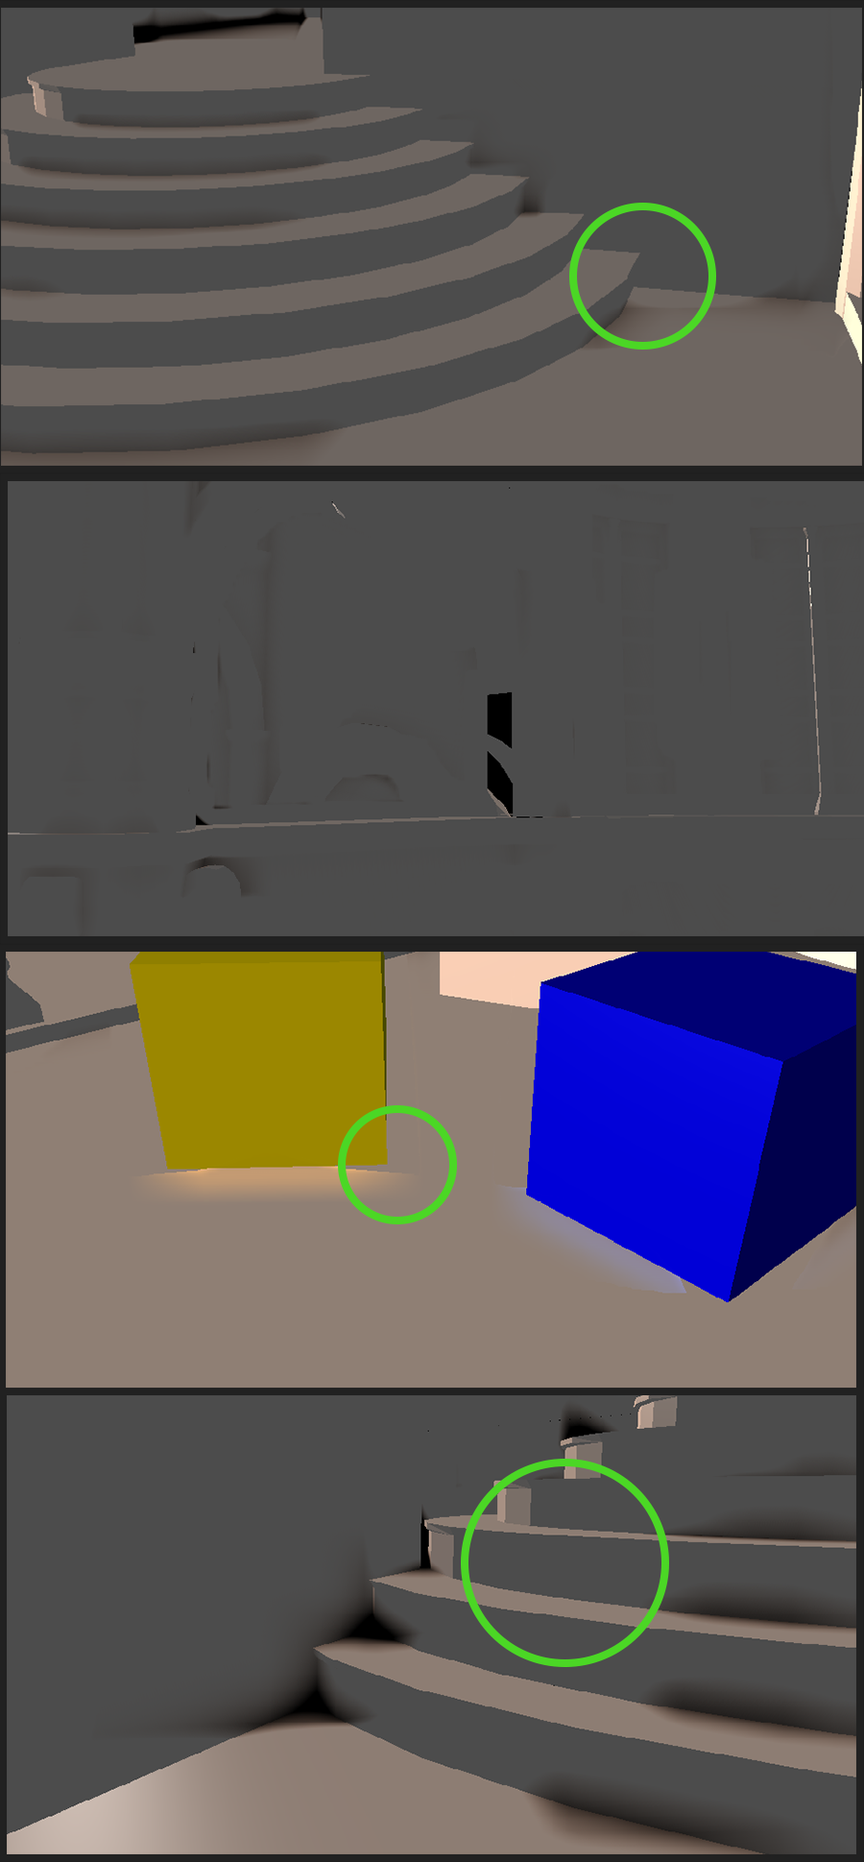
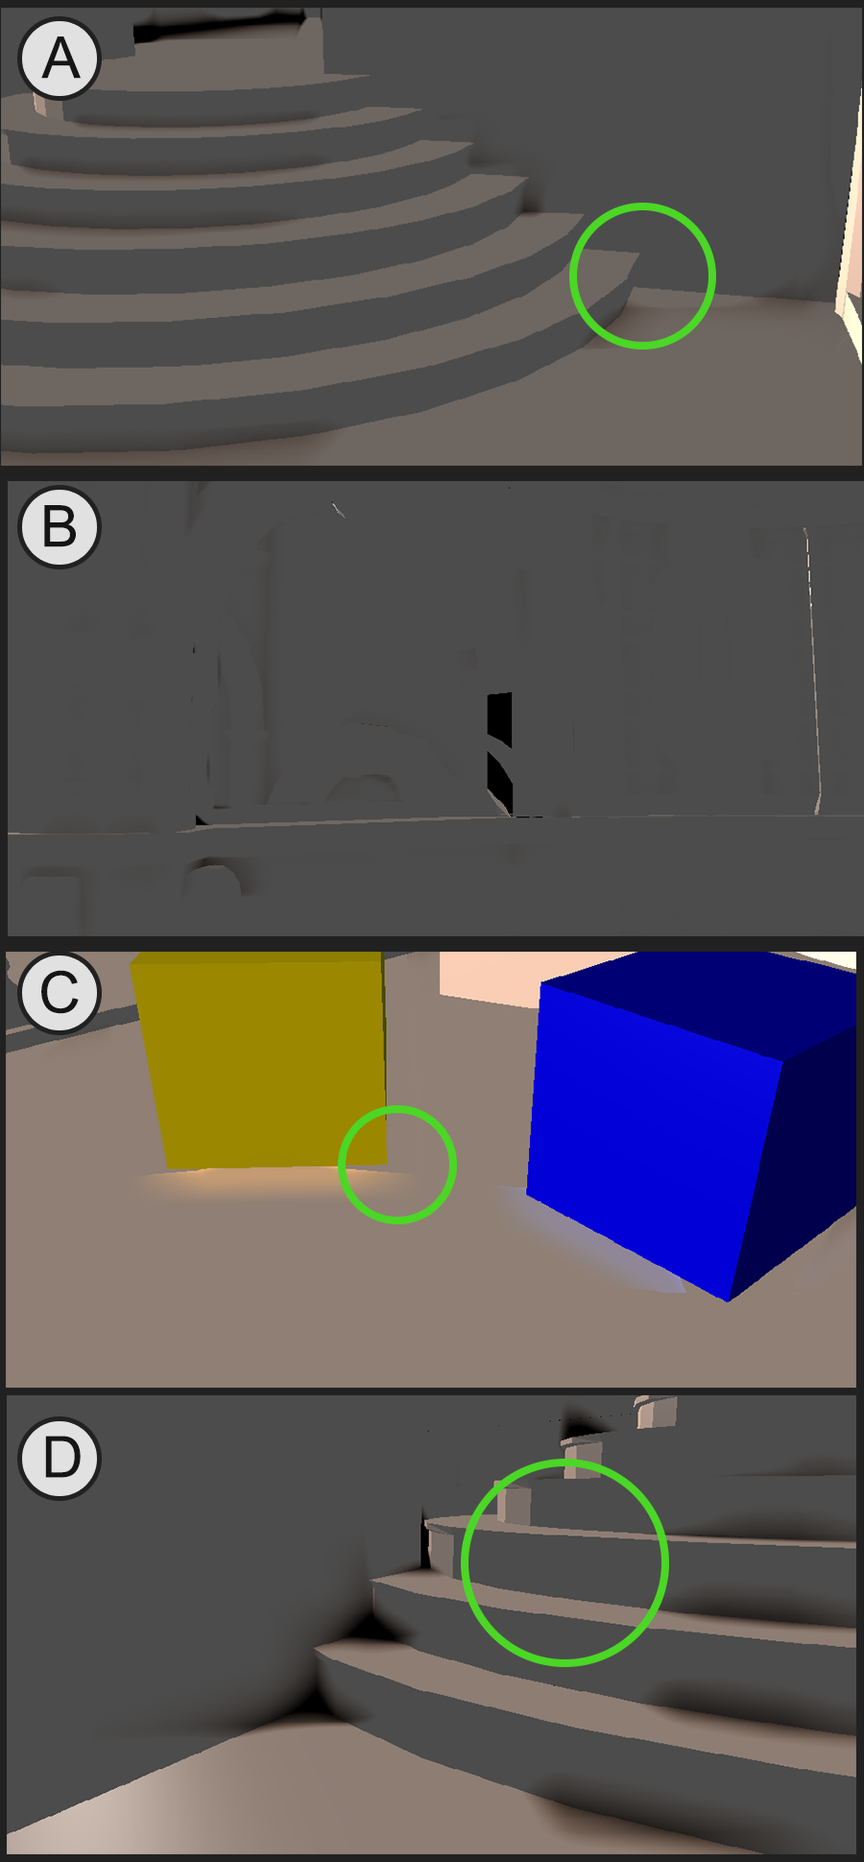
[+] Chaps 7 and 8

diff --git a/SSDOPraca/praca_tex/chap08.tex b/SSDOPraca/praca_tex/chap08.tex
@@ -4,13 +4,36 @@
 	\section{Porównanie implementowanych algorytmów}
 	\label{t:wnioski:porownanie}
 	
-		\subsection{Wydajność}
+		\subsection{Wydajność i złożoność}
 		\label{t:wnioski:porownanie:wydajnosc}
+		
+		% Szybkość działania
+		% Skomplikowanie i użycie pamięci
+		% tak
+		
+		Wydajność techniki SSDO-A w przedstawionej implementacji okazuje się być na akceptowalnym poziomie. Zgodnie z danymi w tabeli \ref{tab_7_A} jej użycie powoduje wzrost czasu wykonania jednego przebiegu programu o 0.91 ms. Przyjmując, że aby zachować płynność w przypadku komercyjnego silnika gry czas klatki nie powinien przekroczyć 16.67 ms (co odpowiada 60 FPS), jest to znacząca wartość, bo aż ok. 6\% tej liczby. Należy pamiętać, iż w zastosowaniach praktycznych podczas jednego przebiegu programu zachodzi mnóstwo dodatkowych obliczeń, m.in. tak czasochłonnych, jak fizyka, sztuczna inteligencja, czy inne efekty graficzne (np. dynamiczne cienie). Natomiast prezentowana w niniejszej pracy aplikacja testowa służy głównie do prostego renderingu siatek wielokątowych i nanoszenia na nie rezultatów działania omawianych technik okluzji kierunkowej.
+		
+		Wbrew wcześniejszym założeniom metoda SSDO-B okazała się dwukrotnie mniej wydajna od swojego pierwowzoru i aż prawie sześciokrotnie od SSDO-C. Na jej wykonanie potrzeba 2.41 ms, czyli 14\% czasu całkowitego. Jest to bardzo duża wartość i w konsekwencji dyskwalifikuje tę technikę z jakiegokolwiek wykorzystania praktycznego. Pomimo użycia dużo mniej wymagającego obliczeniowo procesu próbkowania okolicy piksela (zamiast kilkunastu czy kilkudziesięciu próbek na piksel ma miejsce tylko osiem samplowań) nie uzyskano spodziewanego przyrostu wydajności. Winowajcą jest technika warstw adaptacyjnych. Utworzenie SAT tylko dla głównych wersji buforów nie stanowi większego uszczerbku na wydajności (generator SAT uruchamiany jednokrotnie), lecz w przypadku metody adaptacyjnej sytuacja znacząco się zmienia. Obliczanie tablic sum ma miejsce aż pięciokrotnie. Oprócz tego, compute shader tworzący warstwy uruchomiony zostaje trzy razy. W rezultacie dochodzi do trzynastu wywołań funkcji \texttt{Dispatch} oraz sześciu zmian ustawionego programu cieniującego w jednym przebiegu renderingu. Ostatniej kwestii trudno uniknąć, ponieważ należy zachować odpowiednią kolejność operacji. Pomimo pracy na buforach o rozmiarach tylko 320x160 pikseli, wszystko to stanowi znaczący problem w kwestii szybkości działania. Oryginalna technika StatVO \cite{statvo} boryka się z omawianym problemem na mniejszą skalę, z~racji wykorzystania tylko bufora głębokości i opcjonalnie, wektorów normalnych. Wartości te można zmieścić na jednej teksturze. W przypadku SSDO-B używany jest też drugi bufor -- koloru. Podwaja to liczbę wykonywanych operacji. Zaleta omawianej implementacji to w~tym przypadku możliwość obliczania warstw adaptacyjnych oraz SAT jednocześnie dla obu tekstur, lecz wpływ na wydajność i tak jest niebagatelny. Pod kątem zapotrzebowania na pamięć SSDO-B przegrywa z pierwowzorem, lecz nieznacznie. Użyto większej liczby tekstur ale ich rozmiary są o połowę mniejsze.
+		
+		Sytuacja poprawia się bardzo w przypadku metody SSDO-C. Na wykresie \ref{wykr_7_A} widać wyraźnie, iż to najwydajniejsza z zaimplementowanych technik. Jej wpływ na przebieg programu jest niewielki, gdyż obliczenia zajmują tylko 0.12 ms, co stanowi zaledwie 0.7\% dopuszczalnego interwału. Szybkość przetwarzania wzrosła względem bazowej techniki o~ponad 2.5 raza. Uzyskano taki efekt poprzez usunięcie całego modułu SSDO-B odpowiadającego za SAT oraz warstwy adaptacyjne. Liczba obliczeń została znacząco zredukowana, gdyż tu wykonywane są tylko dwa przebiegi rozmycia gaussowskiego z zachowaniem krawędzi (poziome i pionowe). Także proces samplowania buforów jest uproszczony, ponieważ wystarczy pobrać jedną próbkę zamiast czterech dla każdej z warstw, nie trzeba też wyliczać wartości średnich ani różnic.
+		W porównaniu do SSDO-A, zapotrzebowanie na pamięć jest niewiele większe. Jedyna różnica to wykorzystanie dwóch tekstur zawierających dane uśrednione oraz dwóch buforów tymczasowych. Wymiary wszystkich są jednak o połowę mniejsze niż wielkości tekstur wejściowych w SSDO-A.
 		
 		\subsection{Wygląd i występowanie artefaktów}
 		\label{t:wnioski:porownanie:wyglad}
 		
-		% Technika subtrakcji kolorów może generować artefakty po użyciu tekstur.
+		% SSDO-A jest zaszumiona ale nie prezentuje artefaktów
+		% SSDO-B ma problem z warstwami
+		% SSDO-C wygląda w sumie najlepiej ale też ma problemy ze sobą
+		% SSDO-B i -C nie tak dobrze oddają kierunkowość (patrz obszar badań)
+		
+		Obserwując zrzuty ekranu zamieszczone na rysunku \ref{fig_7_A} zauważyć można, że efekt generowany przez technikę SSDO-A jest lekko zaszumiony, co szczególnie widać we fragmencie D. Jako powód uznać można niedostateczną liczbę próbek lub niewystarczający stopień rozmycia. Prawdopodobnie efekt mógłby być lepszy, gdyby końcowy proces uśrednienia nastąpił kilkukrotnie. Pogorszyłoby to jednak i tak nie najlepszą wydajność algorytmu. Na obrazkach A i B widać, że tworzony efekt okluzji jest bardzo intensywny i dobrze zaznacza wszelkie kanty, zagięcia oraz inne ostre przejścia w renderowanej geometrii. Należy także zwrócić uwagę na niebagatelny wpływ kierunku oraz koloru światła, co szczególnie można zaobserwować na obrazku A. Kolor zacienienia po lewej stronie ma wyraźnie brązowy kolor, podczas gdy w SSAO mógłby być tylko odcieniem szarości. Na omawianym przykładzie widać także, że im bardziej geometria skierowana jest w stronę światła, tym mniej okluzji występuje w zagięciach schodów. Na obrazku C widnieje efekt działania oświetlenia pośredniego. U stóp sześcianów można zaobserwować jasną plamę o barwie odpowiadającej kolorowi pudełek. To oczekiwany i poprawny efekt, jednak pod kątem padania światła zbliżonym do 45 stopni na powierzchni ,,rzucającej'' promienie także się on pojawia (oznaczony czerwonym prostokątem), a jego źródło to podłoga. Czy można nazwać go pożądanym skutkiem działania metody, czy też raczej artefaktem wizualnym jest już kwestią subiektywną. Z~pewnością istnieje możliwość regulacji odpowiednim parametrem materiału. Na koniec należy zwrócić uwagę na fakt, że mimo wystąpienia szumu nie występują tu artefakty wizualne mające miejsce w następnych technikach.
+		
+		SSDO-B trapią największe problemy związane z błędami w wyświetlanym obrazie. Zostało to przedstawione na obrazkach A, C oraz D rysunku \ref{fig_7_B} i zaznaczone zielonymi okręgami. Widać, że w tych miejscach występuje ,,twarda'' granica między zacienieniem jasnym miejscem. Braki w okluzji wynikają z działania systemu warstw. Implementacja zakłada, że nieprzypisane miejsca wypełniane są zerami. Podczas pobierania uśrednionej wartości, gdy próbkowanie przebiega na granicy warstw, zera te mają wpływ na średnią. Doprowadza to do powstania braków w zacienieniu i jest kolejnym argumentem mogącym zdyskwalifikować ten algorytm z użycia praktycznego. W miejscach, gdzie okluzję widać, można zauważyć, że efekt znacznie różni się od SSDO-A. Z racji ewaluacji wolumetrycznego przesłonięcia poprzez wartość średnią szumy nie występują. Zacienienie przechodzi do jasnego koloru wyraźnym nieliniowym gradientem (obrazki A i D). Sam narożnik jest bardzo ciemny, jednak szybko okluzja zostaje wygaszona. Prowadzi to do powstania subtelniejszego rezultatu. Który z algorytmów prezentuje ładniejszy efekt to już kwestia subiektywna. Efekt światła pośredniego bywa gładszy i bardziej subtelny, nie występują także odbicia od podłogi.
+		
+		Wygląd okluzji generowanej przez SSDO-C pod względem nieistnienia błędów prezentuje się lepiej od SSDO-B, choć nie idealnie. Brak tu ,,dziur'' w zacienieniu, jest ono większości przypadków miękkie. Jednak ma miejsce inny rodzaj artefaktów. Na obrazkach B oraz D rysunku \ref{fig_7_C} widać wspomniany w rozdziale \ref{t:impl:c} defekt występujący na krawędziach (zaznaczone zielonym okręgiem). Zaproponowana metoda radzenia sobie z tym problemem nie jest w pełni skuteczna, lecz można zaobserwować jej działanie na obrazkach A i C. Drugi niepożądany błąd to ,,wylewanie się'' okluzji na płaskich powierzchniach leżących blisko krawędzi (obrazek D, czerwone prostokąty). Wynika on z faktu, iż prosta implementacja rozmycia z zachowaniem krawędzi, choć wydajna, powoduje zniekształcenie wartości w~okolicach miejsc nieciągłych. Warto nadmienić, iż kierunkowość zacienienia dużo trudniej zaobserwować niż w SSDO-A (obrazek A).
+		Tak samo, jak w SSDO-B okluzja jest subtelna i otacza większe obszary niż w przypadku SSDO-A, co najlepiej widać po porównaniu obrazków B.
+		
+		Rysunek \ref{fig_7_D} dobitnie ukazuje, jak znaczący wpływ na wygląd generowanego obrazu ma okluzja otoczenia, niezależnie od przyjętej techniki oraz implementacji. Obrazek D~przedstawia niewiele więcej niż tylko płaską ścianę. Natomiast wszystkie pozostałe w lepszy lub gorszy sposób podkreślają kształty geometrii, wierniej symulują proces rozchodzenia się światła i w niebagatelnym stopniu przyczyniają się do polepszenia efektu wizualnego.
 	
 	\section{Zastosowanie i ograniczenia implementowanych algorytmów}
 	\label{t:wnioski:zastosowanie}
@@ -19,19 +42,33 @@
 	% użycie buforów rozmytych o bardzo zredukowanym rozmiarze - większa wydajność
 	% uproszczenie procesów fizycznych - większa wydajność
 	% rozmycie buforów zamiast SAT może dodatkowo bardzo poprawić wydajność
+	% StatVO z SAT nadaje się ŹLE bo za dużo danych, warstwy itp.
 	
 	% konieczność generowania SAT i warstw, chociaż mniejszych
 	% mniej zgodny z fizyką efekt, bardziej bazujący na podobieństwie wyglądu
 	% liczba warstw jest ograniczona i ma wpływ na wydajność
 	% konieczność przetwarzania większej ilości danych niz w StatVO
+	% braknie pamięci współdzielonej przy SAT przy większych buforach (będize trza podzielić na pojedyncze wywołania)
+	% Technika subtrakcji kolorów może generować artefakty po użyciu tekstur.
 	
-	Fakt rezygnacji z próbkowania eliminuje lub znacznie ogranicza większość wymienionych w rozdziale \ref{t:algorytm:wady-ssdo} problemów. Zamiast kilkunastu czy kilkudziesięciu próbek na piksel ma miejsce tylko osiem samplowań, dysponujemy bowiem dwoma SAT -- bufora głębi i wektorów normalnych oraz bufora koloru.
+	Z obu zaproponowanych nowych technik generowania kierunkowej okluzji otoczenia (SSDO-B i SSDO-C) pierwsza obwarowana jest największą liczbą ograniczeń. Po pierwsze, choć w założeniu miała być wydajniejsza od SSDO-A, jej wąskie gardło to proces generowania warstw adaptacyjnych oraz ich SAT. Należy także wspomnieć o tym, że to właśnie on jest przyczyną największej liczby restrykcji. Po pierwsze, jak wspomniano wcześniej, algorytm tworzenia SAT działający dla pojedynczego wiersza tekstury musi korzystać z pamięci współdzielonej, więc maksymalna szerokość buforów to 2048 pikseli. Rozwiązaniem byłoby przypisanie większej liczby obliczeń do jednego wątka lub podział tekstury na części i~tworzenie SAT dla każdej osobno, po czym łączenie. To jednak rodzi dodatkowe wywołania funkcji \texttt{Dispatch} i może znacząco obniżyć wydajność. Warto pamiętać także o limicie 4 warstw adaptacyjnych. W przypadku bardziej skomplikowanych scen zajdzie potrzeba stworzenia większej ich liczby, co pociągnie za sobą kolejne straty w szybkości działania i zwiększy użycie pamięci. Jednym z wniosków płynących z niniejszej pracy jest to, że algorytm SSDO-B źle się skaluje wraz ze wzrostem złożoności sceny i z powodu potrzeby przygotowania dużej ilości danych wejściowych nie uzyskuje wydajnościowej przewagi nad pierwowzorem -- SSDO-A. Zastosowanie w praktyce jest z tego powodu wątpliwe.
 	
-	Prowadzi on do rezygnacji z próbkowania na rzecz modelu statystycznego, a tym samym zastąpienia przebiegów rozmycia przebiegami generowania SAT dla poszczególnych warstw.
+	W przypadku techniki SSDO-C rozwiązanie przedstawionego wcześniej problemu krawędzi sprawi, iż w pełni będzie nadawać się ona do użytku praktycznego jako prosta i~wydajna metoda kierunkowej okluzji otoczenia. Należy jednak zaobserwować, że generowanie oświetlenia pośredniego techniką różnicy kolorów (wzór \ref{t:algorytm:stat:indirect}) działa dobrze dla jednolitych obiektów, lecz w przypadku użycia tekstur może spowodować powstanie artefaktów graficznych. Pomimo tego mniej zgodny z fizyką, lecz wizualnie podobny do oryginału efekt wizualny spełnił postawione przed nim założenia. Występowanie niewielkich błędów jest problemem, lecz wydajnościowo SSDO-C dalece prześciga SSDO-A i dzięki temu pozostawia spore pole do rozwiązania tej niedogodności.
+	
+	Duża zaleta obu zaproponowanych algorytmów to brak konieczności uśredniania finalnego obrazu i całkowite wyeliminowanie problemu szumu lub kosztownego rozmycia, który trapi technikę SSDO-A.
 	
 	\section{Obszar przyszłych badań}
 	\label{t:wnioski:przyszle}
 	
 	% Inne algorytmy rozmycia z zachowaniem krawędzi
 	% Inne techniki naprawy krawędzi
+	% Technika hybrydowa (trochę statvo trochę próbkowania)
 	% Modulacja wielkości filtra rozmycia zależnie od kierunku światła (łatwiej w B trudniej w C); ewentualnie parametra wejściowego
+	
+	Aby móc zastosować w praktyce technikę SSDO-B, należy w pierwszej kolejności uprościć proces generowania SAT i warstw adaptacyjnych, a następnie rozwiązać problem z nieciągłością w okluzji pomiędzy warstwami. Pozwoli to na uzyskanie akceptowalnej wydajności i wyeliminowanie artefaktów. Rozwiązaniem pierwszej niedogodności mogłoby być np. skumulowanie wszystkich obliczeń w jeden globalny compute shader. Jednakże brak możliwości synchronizacji grup wątków sprawia, iż nie jest to trywialna operacja.
+	
+	Poprawiając technikę SSDO-C, warto byłoby skupić się na zastosowaniu bardziej złożonych algorytmów rozmycia z uwzględnieniem głębokości, które pozwolą uniknąć zniekształceń danych i ,,wylewania się'' okluzji.
+	
+	W kwestii naprawy krawędzi sensownym krokiem byłoby zastosowanie metody hybrydowej, tzn. dodatkowego próbkowania okolicy nieciągłości i na tej podstawie weryfikacja, czy może zajść w danym miejscu błąd, po czym naprawienie go. Dobrym pomysłem mogłoby także być użycie wydajnego algorytmu anty-aliasingu na buforze wejściowym oraz rozmytym, co zmniejszyłoby różnicę występującą na krawędziach.
+	
+	Jedną z wad statystycznej kierunkowej okluzji otoczenia jest mniejsze uzależnienie zacienienia od kierunku padającego światła. Różnicę tę najlepiej zaobserwować porównując obrazki A~rysunków \ref{fig_7_A} i \ref{fig_7_C}. Być może sensownym podejściem byłoby zastosowanie różnego rozmiaru filtra rozmycia lub różnej wielkości współczynników zacienienia w zależności od wartości kąta pomiędzy kierunkiem oświetlenia, a wektorem normalnym w danym miejscu.

diff --git a/SSDOPraca/praca_tex/chap07.tex b/SSDOPraca/praca_tex/chap07.tex
@@ -8,6 +8,12 @@
 	% Porównanie liczby FPS z liczbą FPS bez postprocesu pozwala ocenić wydajność
 	% Screeny oceniane organoleptycznie, wzorem jest technika A.
 	
+	Przyjęta w niniejszej pracy metoda badawcza składa się z dwóch oddzielnych procesów. Jako pierwsza została zmierzona wydajność każdego z algorytmów (podrozdział \ref{t:wyniki:wydajnosc}). Uzyskane wartości pozwalają na ocenę przydatności danej techniki w zastosowaniach praktycznych, np. w silniku gry. Im szybciej działa metoda, tym więcej zaimplementować można podobnych jej technik wykonujących obliczenia podczas pracy programu i w ten sposób uzyskać bardziej przyjemny dla oka efekt graficzny.
+	
+	Druga część metody badawczej (podrozdział \ref{t:wyniki:artefakty}) polega na wykonaniu osobnych zrzutów ekranu w newralgicznych miejscach sceny aplikacji i wizualnej ocenie algorytmów. Uwagę zwrócono przede wszystkim na odstępstwa technik SSDO-B i SSDO-C od ,,oryginalnej'' techniki SSDO-A oraz na częstość i rozmiary występujących artefaktów graficznych. Na koniec porównano efekty działania wszystkich trzech metod z obrazem wygenerowanym bez użycia którejkolwiek z nich.
+	
+	Na koniec, w rozdziale \ref{t:wnioski} następuje porównanie wszystkich trzech technik pod względem obu omówionych czynników, dyskusja na temat ich zastosowania w praktyce oraz ograniczeń, a także określenie tego, co można poprawić w przyszłości.
+	
 	\section{Wydajność}
 	\label{t:wyniki:wydajnosc}
 	
@@ -20,21 +26,82 @@
 	
 	% Wykres słupkowy
 	
+	Wydajność określono jako wielkość odwrotnie proporcjonalną do czasu wykonania danej techniki. Im szybciej pracuje algorytm, tym większa jego wydajność. Główna jednostka przyjęta podczas wykonywania pomiarów to liczba FPS (\emph{Frames Per Second}) określająca, ile ramek obrazu może zostać wygenerowanych w czasie jednej sekundy. Wartość ta jest wprost proporcjonalna do wydajności algorytmu. Drugorzędna jednostka zawarta w tabeli \ref{tab_7_A} to czas w milisekundach potrzebny na obliczenia i narysowanie sceny. Jest to więc wartość odwrotna do FPS.
+	
+	Metoda pomiarowa polega na obliczaniu w każdym kroku głównej pętli programu czasów, jakie potrzebne są na jej wykonanie. Dzieje się to od 10 do 40 sekundy pracy aplikacji, czyli trwa w sumie 30 sekund. Następnie przy użyciu wyliczonych wartości zostaje uzyskany średni czas przetwarzania jednego kroku programu w przyjętym interwale. Na koniec wartość ta jest przekształcana do FPS i zapisywana w tabeli. Dzieje się tak dla każdej omawianej techniki. Wykonano także pomiary wydajności programu bez włączonej jakiejkolwiek metody SSDO. Pozwala to uzyskać punkt odniesienia przy ich porównaniu i zobaczyć, jak bardzo po użyciu każdej spada liczba FPS.
+	
+	Podczas pomiarów przyjęto stałą rozdzielczość tylnego bufora równą 1280x720 pikseli. Kamera zawsze znajduje się w tym samym miejscu i rysuje te same obiekty. Aplikację uruchamiano na komputerze z procesorem Core i7-6700K 4 GHz, 16 GB RAM i kartą graficzną GeForce GTX 970 z 4 GB pamięci. Ponieważ wszystkie algorytmy pracują w~przestrzeni ekranu, liczba renderowanych trójkątów nie ma wpływu na ich wydajność.
+	
+	W tabeli \ref{tab_7_A} oraz na wykresie \ref{wykr_7_A} przedstawiono uzyskane wyniki pomiarów. Poprzez \(ms_{r}\) rozumie się liczbę milisekund potrzebnych na wszystkie obliczenia związane z daną techniką bez uwzględnienia pozostałej części aplikacji.
+	
+	% rozdzielczość, kamera, sprzęt.
+	
 	\pgfplotstabletypeset
 	[
+	columns/$$/.style={string type},
 	every head row/.append style={before row={%
 			\caption{Wydajność poszczególnych technik SSDO.}%
 			\label{tab_7_A}\\\toprule}}
 	]
 	{chart_7_A.dat}
+	\($$\)
 	
+	\pgfplotstableread
+	{
+		method fps
+		SSDO-A 793
+		SSDO-B 362
+		SSDO-C 2130
+		Brak 2880
+	}\loadedtable
+
+	\pgfplotstableread[header=false]{
+		793 SSDO-A
+		362 SSDO-B
+		2130 SSDO-C
+		2880 Brak
+	}\datatable
+	
+	\begin{figure}[H]
+		\begin{tikzpicture}
+		\begin{axis}[
+			xbar, bar shift=0pt,
+			enlarge y limits=0.2,
+			xmin=0,
+			xtick={0, 400, 800, 1200, 1600, 2000, 2400, 2800, 3200, 3600},
+			ytick={0,...,4},
+			yticklabels from table={\datatable}{1},
+			xmajorgrids = true,
+			bar width=8mm, 
+			width=14cm, height=6.5cm, 
+			xlabel={FPS},
+			ylabel={Technika SSDO},
+			nodes near coords, nodes near coords align={horizontal},
+			]
+			
+			\pgfplotsinvokeforeach{0,...,4}{
+				\addplot table [select row=#1, y expr=#1] {\datatable};
+			}
+		\end{axis}
+		\end{tikzpicture}
+		\caption{Wykres przedstawiający liczbę osiąganych FPS przez każdy z algorytmów. Źródło: opracowanie własne.}
+		\label{wykr_7_A}
+	\end{figure}
+
+	\pagebreak
 	
 	\section{Wygląd i występowanie artefaktów}
 	\label{t:wyniki:artefakty}
 	
 	% Screeny dla każdej techniki: dwa rodzaje zacienienia (schody i okna), rozjaśnienia (boksy) oraz screen ukazujący błędy
+	\raggedbottom
+	Kryterium wyglądu jest subiektywne, jednak wyróżnić można kilka cech wygenerowanych obrazów, które da się w pewnym stopniu ocenić, a nawet porównać ze sobą. Wśród nich należy wymienić skłonność do występowania artefaktów, czyli zacienień w miejscach, gdzie zgodnie z zasadą rozchodzenia się światła nie powinno ich być. Kolejnymi czynnikami są: stopień zaszumienia okluzji, gładkość jej gradientu podczas przechodzenia z ciemnych do jasnych miejsc oraz stopień zacienienia przy tych samych parametrach wejściowych. Ocenie podlega także kształt i siła generowanego oświetlenia pośredniego.
 	
-	\pagebreak
+	W celu ukazania efektu pracy poszczególnych technik oraz porównania osiągniętych przez nich efektów wizualnych, dla każdego algorytmu sporządzono cztery zrzuty ekranu, oznaczone kolejno literami A, B, C i D. Trzy z nich wykonane zostały zawsze w tym samym położeniu kamery oraz światła. Dwa pierwsze służą ocenie wyglądu okluzji kierunkowej, trzeci -- oświetlenia pośredniego. Czwarty zrzut ekranu jest różny dla każdej z technik a jego zadanie to prezentacja błędów, jakie mogą powstać podczas renderingu. Kolorowe okręgi oraz prostokąty naniesiono na przedstawione obrazy w programie graficznym. Umożliwia to łatwe odniesienie do interesujących elementów w~rozdziale \ref{t:wnioski:porownanie:wyglad}.
+	
+	Na koniec przedstawiono cztery zrzuty ekranu z tego samego miejsca w scenie. Trzy pierwsze odpowiadają kolejnym technikom, czwarty został wyrenderowany bez użycia żadnej. Służy to porównaniu siły okluzji i uwidocznieniu, jak algorytmy wpływają na finalny wygląd sceny oraz podkreślenie kształtów geometrii.
+
+	\pagebreak	\flushbottom
 	
 	\myownfigure{Efekty działania techniki SSDO-A.}{figures/fig_7_A.png}{0.35}{fig_7_A}
 	

diff --git a/SSDOPraca/praca_tex/main.tex b/SSDOPraca/praca_tex/main.tex
@@ -120,6 +120,33 @@
 	every even row/.style={
 		before row={\rowcolor[gray]{0.92}}},
 }
+
+\pgfplotsset{compat=newest} 
+
+\pgfplotsset{
+	select row/.style={
+		x filter/.code={\ifnum\coordindex=#1\else\def\pgfmathresult{}\fi}
+	},
+	discard if/.style 2 args={
+		x filter/.code={
+			\edef\tempa{\thisrow{#1}}
+			\edef\tempb{#2}
+			\ifx\tempa\tempb
+			\def\pgfmathresult{inf}
+			\fi
+		}
+	},
+	discard if not/.style 2 args={
+		x filter/.code={
+			\edef\tempa{\thisrow{#1}}
+			\edef\tempb{#2}
+			\ifx\tempa\tempb
+			\else
+			\def\pgfmathresult{inf}
+			\fi
+		}
+	}
+}
 	
 \lstset{frame=tb,
 	aboveskip=3mm,
